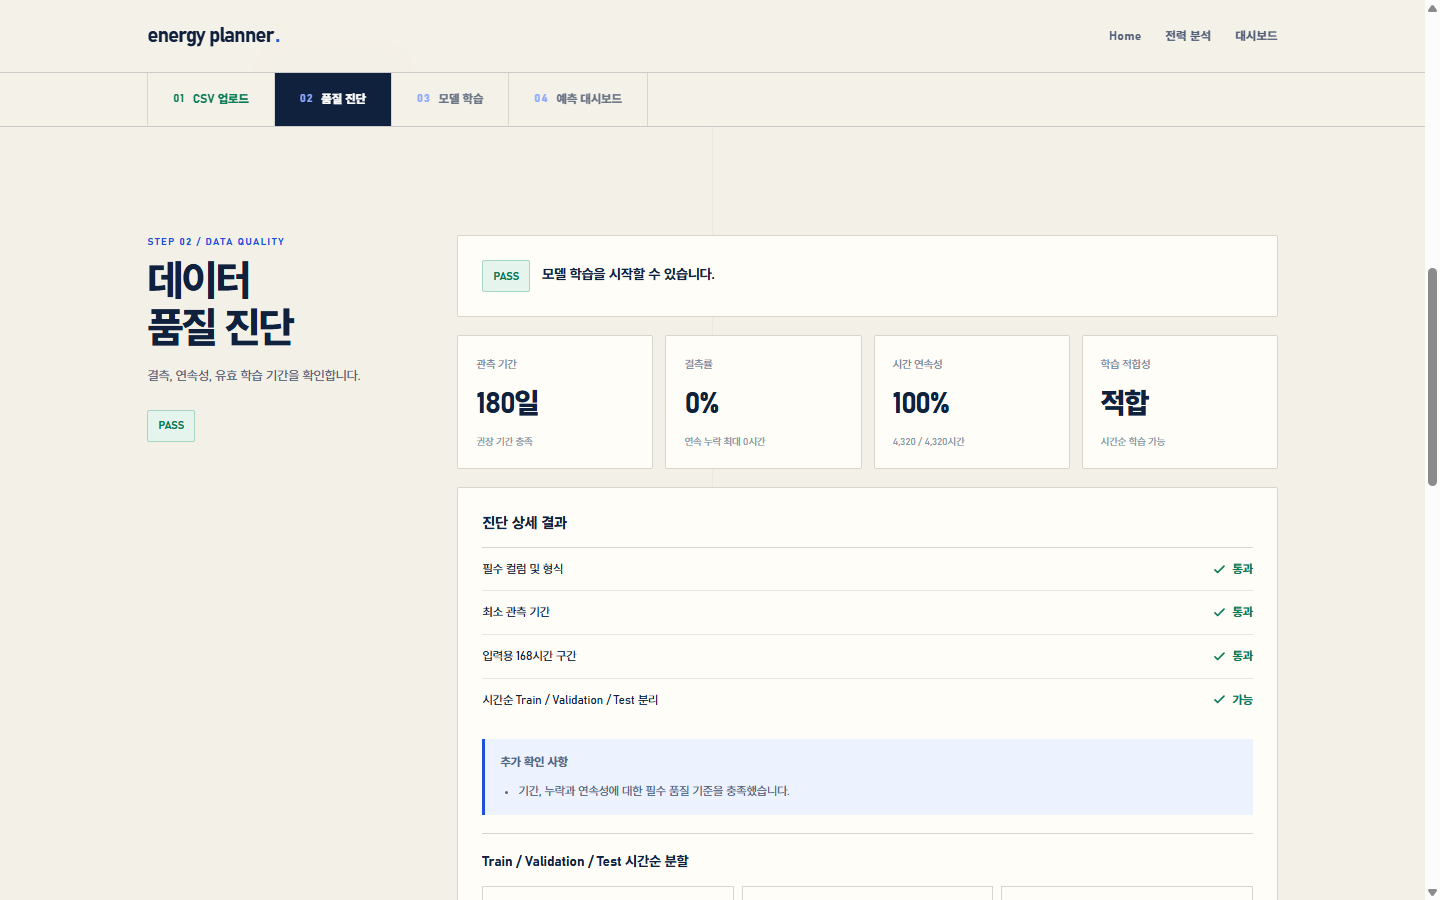
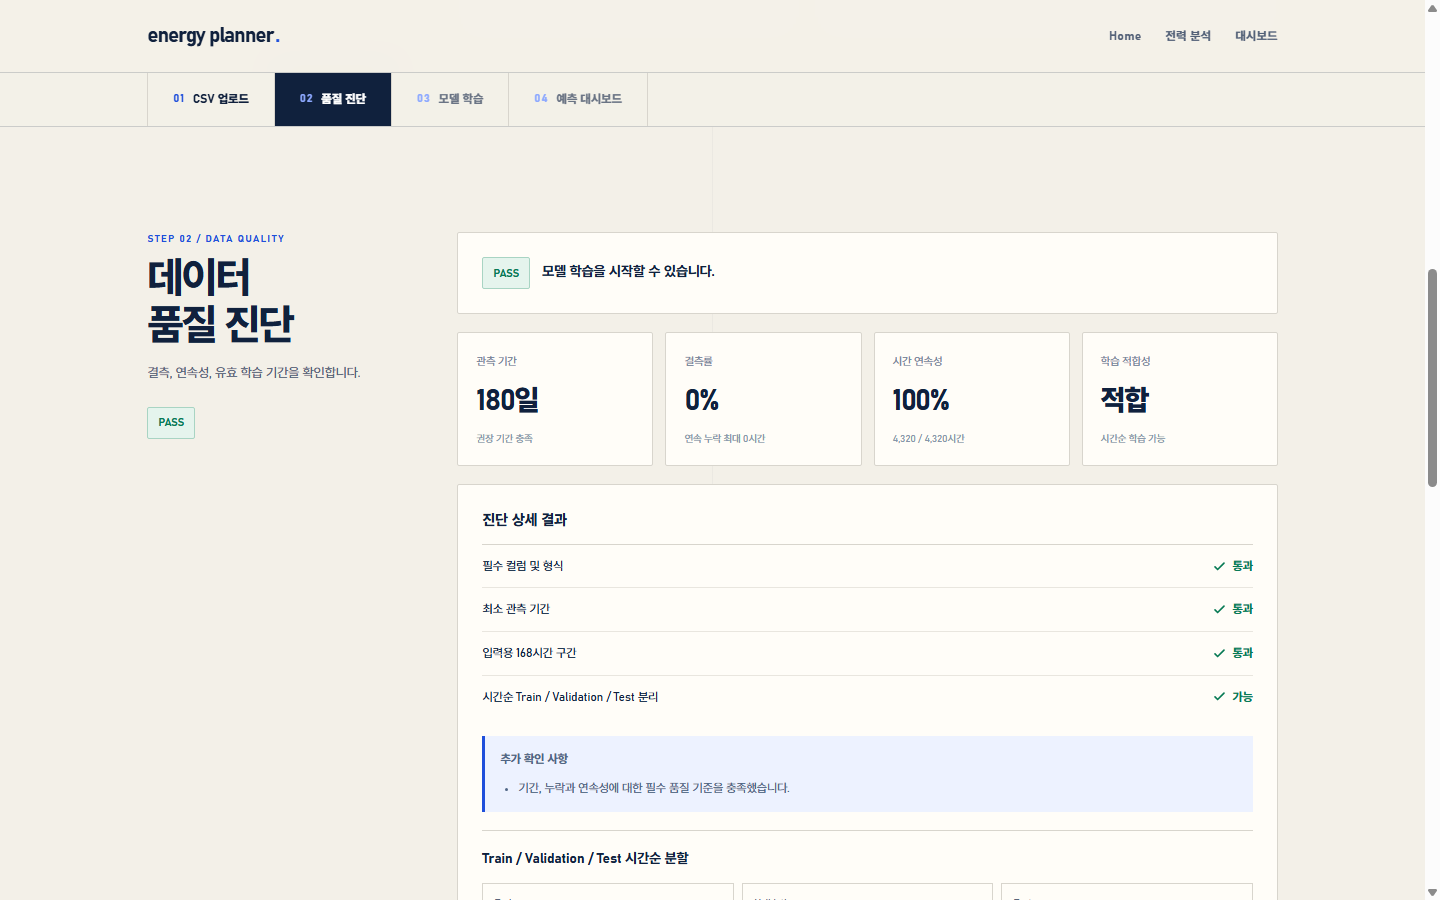
style: refine workflow states and restart action

diff --git a/frontend/index.html b/frontend/index.html
@@ -59,7 +59,7 @@
         <div class="panel chart-panel"><div class="section-heading panel-heading"><div><h3 class="section-text">향후 24시간 전력 사용량</h3><div class="sub"><span id="forecast-reference">예측 시작 기준: 미설정</span> · <span id="forecast-timezone">시간대: 미설정</span></div></div><span id="sample-tag" class="status">예측 결과 없음</span></div><div class="chart-wrap"><svg class="chart" id="forecast-chart" viewBox="0 0 720 270" role="img" aria-label="24시간 전력 예측 그래프"></svg><div id="forecast-tooltip" class="tooltip" role="status" hidden></div></div><div class="chart-legend"><span><i class="actual"></i>과거 실측</span><span><i class="forecast"></i>미래 예측</span></div><details class="forecast-table-details"><summary>24시간 예측값을 표로 보기</summary><div class="data-table-scroll"><table><thead><tr><th scope="col">예측 시각</th><th scope="col">사용량(kWh)</th></tr></thead><tbody id="forecast-table-body"></tbody></table></div></details></div>
         <div class="grid2 usage-grid"><div class="panel"><div class="section-heading panel-heading"><div><h3 class="section-text" id="usage-analysis-title">최근 7일 일별 사용량</h3><div class="sub">업로드 데이터 기준</div></div><span id="actual-summary-label" class="status">예측 후 표시</span></div><div class="chart-wrap"><svg class="chart" id="daily-usage-chart" viewBox="0 0 520 240" role="img" aria-label="최근 7일 일별 전력 사용량 막대 그래프"></svg><div id="usage-tooltip" class="tooltip" role="status" hidden></div></div></div><div class="panel"><h3 class="section-text">시간대별 사용 비중</h3><div class="sub">최근 7일 소비량 분포</div><div class="period-composition"><div id="period-donut" class="donut" role="img" aria-label="시간대별 사용량 구성비"></div><ul id="period-composition-list" class="period-list"></ul></div></div></div>
         <div class="panel monthly-usage"><h3 class="section-text">최근 월별 사용량</h3><div id="monthly-usage-list" class="monthly-usage-list"></div></div>
-        <div class="panel ai-analysis-panel"><div class="section-heading panel-heading"><div><h3 class="section-text" id="ai-analysis-title">AI 전력 사용 분석</h3><div class="sub">선택 기능 · OpenAI API</div></div><button id="ai-analyze" class="btn" type="button" disabled>AI 분석하기</button></div><p id="ai-analysis-status" class="notice" aria-live="polite">24시간 예측을 먼저 실행해 주세요.</p><div id="ai-analysis-result" class="grid2 ai-analysis-result" hidden><section><h4>예측 패턴 요약</h4><p id="ai-summary"></p></section><section><h4>피크 시간 해석</h4><p id="ai-peak"></p></section><section><h4>관찰된 패턴</h4><ul id="ai-patterns"></ul></section><section><h4>참고사항</h4><ul id="ai-cautions"></ul></section></div><p class="muted">원본 CSV는 OpenAI API로 전송하지 않습니다. 현재 예측의 24개 값과 최소 집계 정보만 전송합니다.</p></div>
+        <div class="panel ai-analysis-panel"><div class="section-heading panel-heading"><div><h3 class="section-text" id="ai-analysis-title">AI 전력 사용 분석</h3><div class="sub">선택 기능 · OpenAI API</div></div><button id="ai-analyze" class="btn" type="button" disabled>AI 분석하기</button></div><p id="ai-analysis-status" class="notice" aria-live="polite">24시간 예측을 먼저 실행해 주세요.</p><div id="ai-analysis-result" class="grid2 ai-analysis-result" hidden><section><h4>예측 패턴 요약</h4><p id="ai-summary"></p></section><section><h4>피크 시간 해석</h4><p id="ai-peak"></p></section><section><h4>관찰된 패턴</h4><ul id="ai-patterns"></ul></section><section><h4>참고사항</h4><ul id="ai-cautions"></ul></section></div><p class="muted">원본 CSV는 OpenAI API로 전송하지 않습니다. 현재 예측의 24개 값과 최소 집계 정보만 전송합니다.</p><div class="actions ai-footer-actions"><a id="dashboard-upload-return" class="btn" href="#upload" data-scroll-target="upload">CSV 업로드로 돌아가기 <span aria-hidden="true">↑</span></a></div></div>
       </div></div>
     </section>
   </main>

diff --git a/frontend/reference-system.css b/frontend/reference-system.css
@@ -92,8 +92,8 @@ a { color: inherit; }
 .step-button:first-child { border-left: 1px solid var(--line); }
 .step-button:hover { background: #ebe8df; color: var(--ink); }
 .step-button span { margin-right: 8px; color: var(--blue-soft); font-size: 11px; font-weight: 900; letter-spacing: .08em; }
-.step-button[data-status="complete"] { color: var(--success); font-weight: 850; box-shadow: none; }
-.step-button[data-status="complete"] span { color: var(--success); }
+.step-button[data-status="complete"] { color: var(--ink); font-weight: 850; box-shadow: none; }
+.step-button[data-status="complete"] span { color: var(--blue); }
 .step-button.is-active, .step-button[aria-current="step"] { background: var(--ink); color: #fff; box-shadow: none; }
 .step-button.is-active span, .step-button[aria-current="step"] span { color: var(--blue-soft); }
 
@@ -243,6 +243,7 @@ a { color: inherit; }
 .ai-analysis-result h4 { margin: 0 0 8px; font-size: 13px; }
 .ai-analysis-result p, .ai-analysis-result ul { margin: 0; color: var(--sub); font-size: 12px; line-height: 1.7; }
 .ai-analysis-result ul { padding-left: 18px; }
+.ai-footer-actions { margin-top: 18px; border-top: 1px solid var(--line); padding-top: 18px; }
 .error { color: var(--danger); font-size: 12px; }
 .disclaimer { border-top: 1px solid var(--line); padding: 30px; color: #8c94a0; font-size: 11px; text-align: center; }
 
